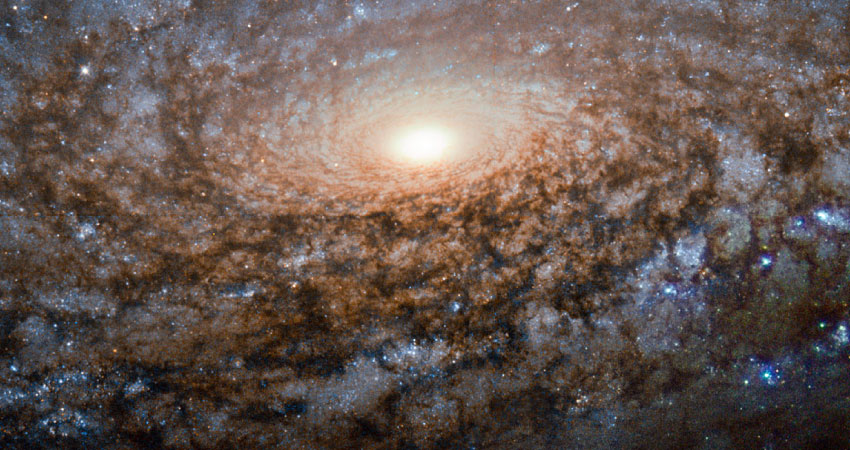
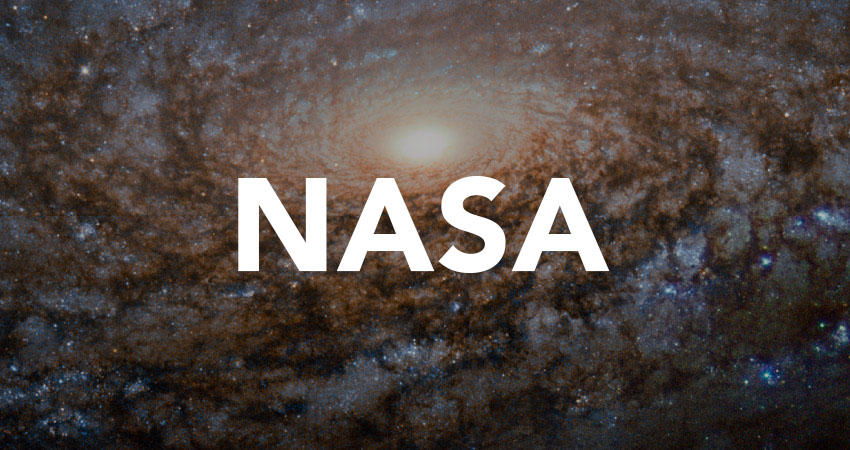
nasa page

diff --git a/02week/nasa/index.html b/02week/nasa/index.html
@@ -1,0 +1,69 @@
+<!DOCTYPE html>
+<html>
+<head>
+  <title>Nasa</title>
+  <link rel="stylesheet" href="css/style.css">
+</head>
+<body>
+
+  <div class="Nasa-header">
+    <img src="img/nasa-background.jpg" alt="Nasa" />
+  </div>
+
+
+
+  <div class="bottom-section" >
+
+    <div class="column">
+      <div class="inner">
+        <h2>Social Media</h2>
+        <ul>
+          <li>Twitter - @nasa</li>
+          <li>Facebook - fb.com/nasa</li>
+          <li>Instagram - @nasa</li>
+          <li>Youtube - youtube.com/NASA</li>
+        </ul>
+      </div>
+    </div>
+
+
+
+
+    <div class="column">
+      <div class="inner">
+        <h2>Office Info</h2>
+        <ul>
+          <li>Public Communications Office</li>
+          <li>NASA Headquarters</li>
+          <li>300 E. Street SW, Suite 5R30</li>
+          <li>Washington, DC 20546</li>
+          <li>(202) 358-0001 (Office)</li>
+          <li>(202) 358-4338 (Fax)</li>
+        </ul>
+
+      </div>
+    </div>
+
+
+    <div class="column">
+      <div class="inner">
+        <h2>Contact Us</h2>
+        <form>
+          <p>Name</p>
+          <input class="form-name" type="text" name="firstname"><br>
+          <p>Message</p>
+          <input class="form-message" type="text" name="lastname">
+          <input class="submit" type="submit" />
+        </form>
+      </div>
+    </div>
+
+  </div>
+
+
+
+  </body>
+
+
+
+  </html>

diff --git a/02week/nasa/css/style.css b/02week/nasa/css/style.css
@@ -1,0 +1,71 @@
+* {
+  font-family: sans-serif;
+}
+
+
+.nasa-header{
+  max-width: 850px;
+  width: auto;
+  height: 450px;
+}
+
+.bottom-section {
+  margin-top: 25px;
+  max-width: 850px;
+  width: 850px;
+  height: 324px;
+  background-color: #e6e6e6;
+}
+
+.column {
+  width: 270px;
+  height: 324px;
+  float: left;
+}
+
+.column:nth-child(2) {
+  margin: 0 20px;
+}
+
+.inner {
+  padding: 30px;
+
+}
+
+.inner p {
+  font-size: 10pt;
+}
+
+h2 {
+  font-family:sans-serif;
+}
+
+ul {
+  list-style-type:none;
+  padding: 0;
+  font-size: 10pt;
+  line-height: 1.7;
+}
+
+.form-message {
+  padding-top: 20px;
+}
+
+form p {
+  padding-bottom: 0;
+  margin-bottom: 0;
+}
+
+form {
+  line-height: 1.5;
+  font-size:10pt ;
+}
+
+.submit {
+  background-color: #4D4D4D;
+  color: #fff;
+  border:none;
+  padding: 8px;
+  margin-top:20px;
+  font-weight: bold;
+}

diff --git a/index.html b/index.html
@@ -3,3 +3,5 @@
 
 <!-- Find more comments are on the resume index.html -->
 <a href="01week/resume/index.html">Resume</a>
+
+<a href="02week/nasa/index.html"> Nasa </a>
